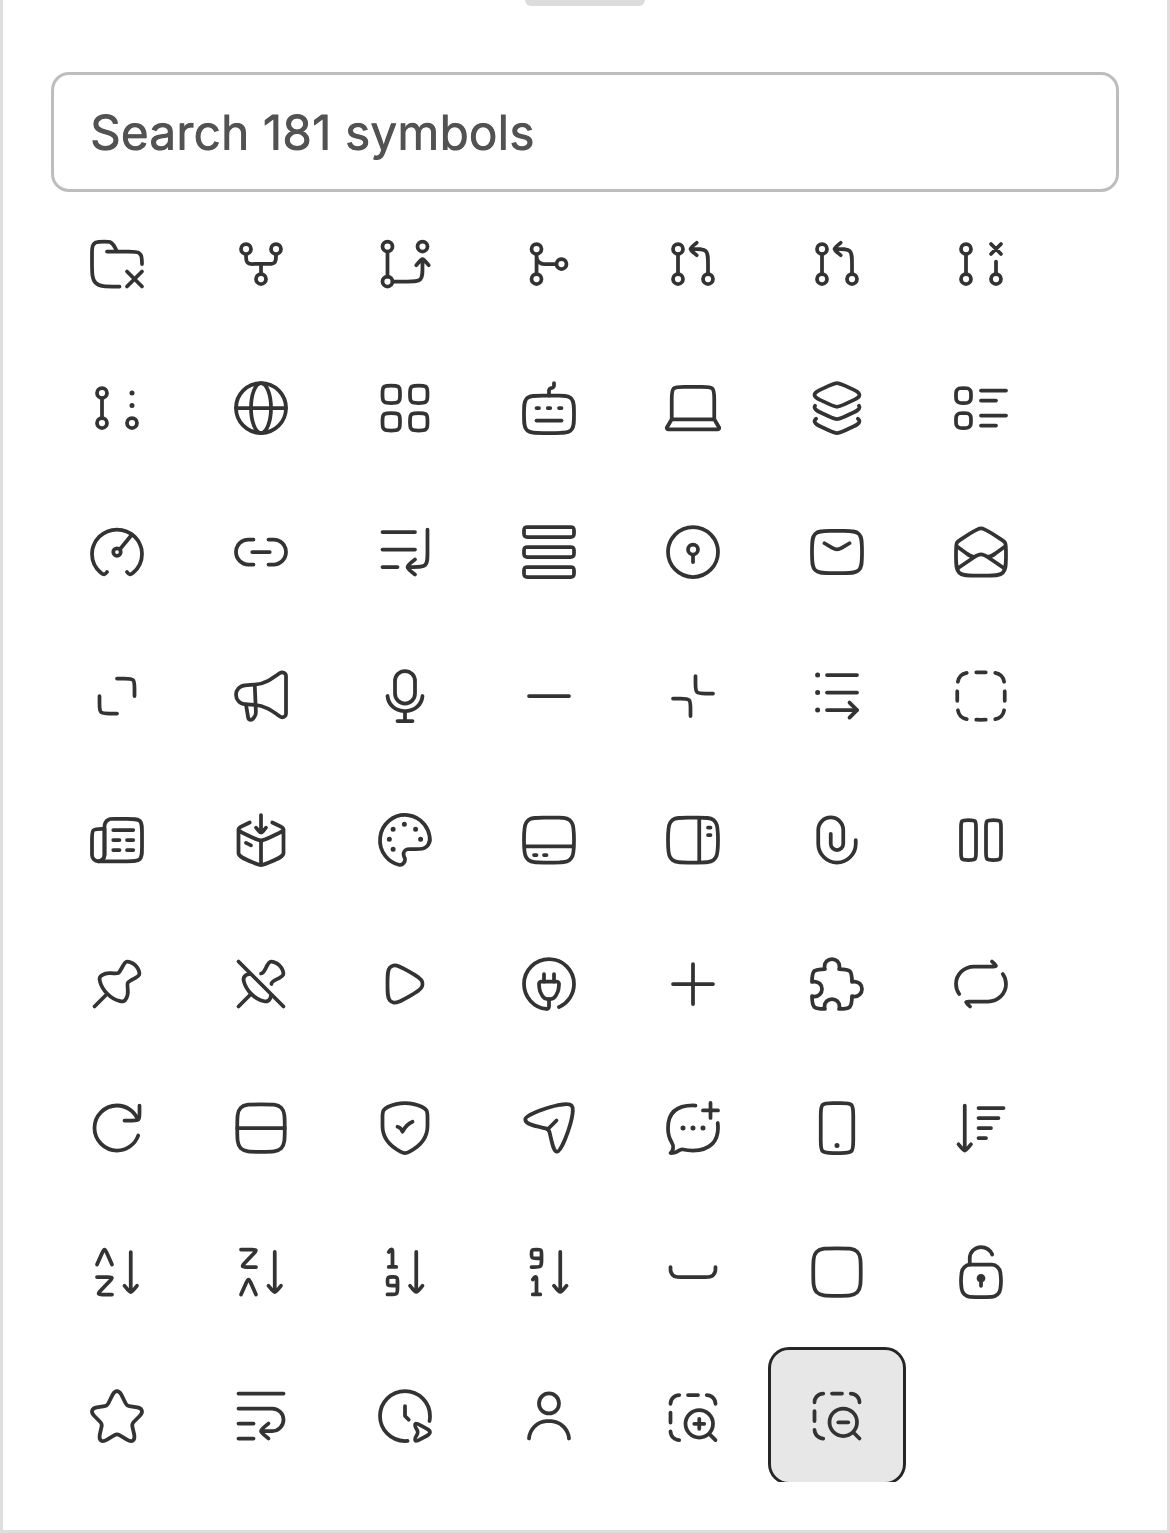
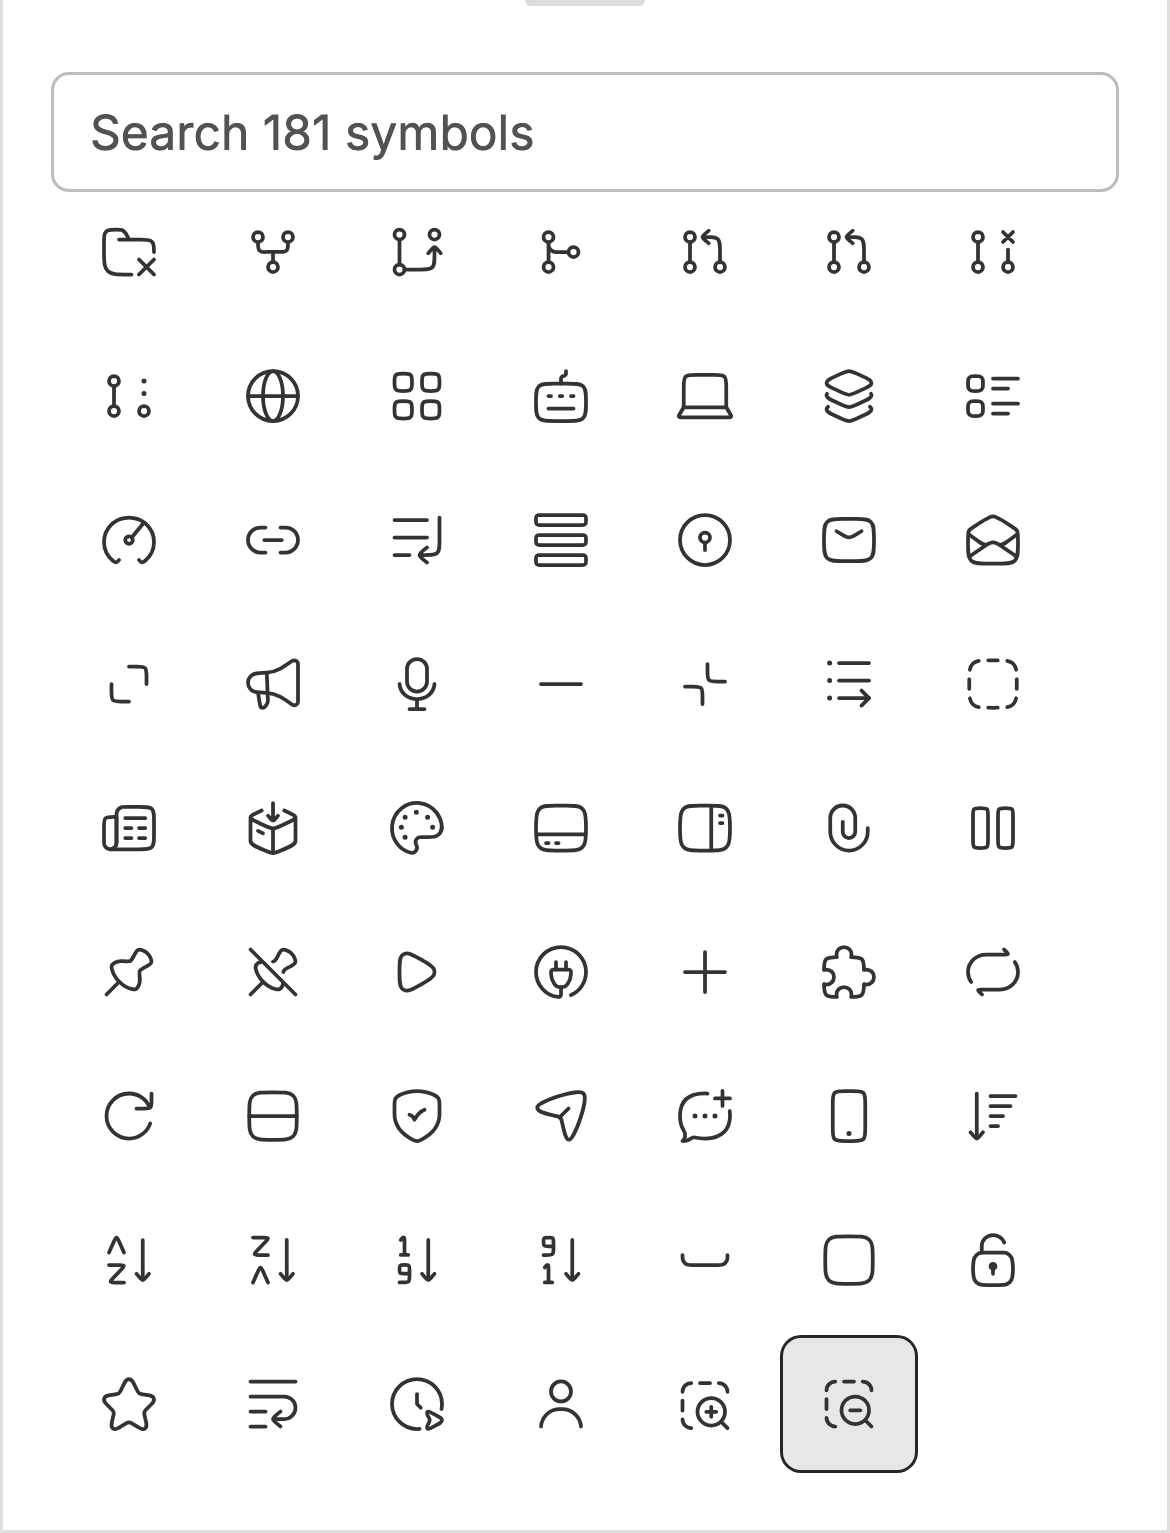
duo-rail: nothing clipped at the symbol popover's left, one more column
The grid scrolls, so it cut off the highlight ring of cells in its first
column; it now keeps 4 pt of padding. The popover is 368 pt wide (eight
symbols across) and never wider than the room the window leaves.

diff --git a/duo-rail/app/editor.tsx b/duo-rail/app/editor.tsx
@@ -290,7 +290,7 @@ function SymbolGrid({ value, searchRef, onPick }: { value: string; searchRef: Re
         role="radiogroup"
         aria-label="Symbol"
         data-testid="duo-rail-icon-grid"
-        className="relative flex max-h-60 flex-wrap content-start gap-1 overflow-y-auto max-md:max-h-[50vh]"
+        className="relative flex max-h-60 flex-wrap content-start gap-1 overflow-y-auto p-1 max-md:max-h-[50vh]"
       >
         {shown.map((icon) => {
           const label = symbolLabel(icon);
@@ -337,7 +337,13 @@ function IconPicker({ id, value, onChange }: { id: string; value: string; onChan
       <PopoverTrigger id={id} type="button" className={ICON_TRIGGER_CLASS} aria-label={`Symbol: ${label}`} title={label}>
         <ActionIcon icon={value} />
       </PopoverTrigger>
-      <PopoverContent align="end" mobileTitle="Symbol" autoFocusRef={search} className="w-80 p-2 max-md:px-4 max-md:pb-4">
+      <PopoverContent
+        align="end"
+        collisionPadding={8}
+        mobileTitle="Symbol"
+        autoFocusRef={search}
+        className="w-[23rem] max-w-[var(--radix-popover-content-available-width)] p-2 max-md:px-4 max-md:pb-4"
+      >
         <SymbolGrid
           key={opening}
           value={value}

diff --git a/duo-rail/AGENTS.md b/duo-rail/AGENTS.md
@@ -112,7 +112,11 @@ scout report that proposed this plugin.
   ("Name" matched `DiffRenamed`, "Pin" `PinOff`). bb's sheet keeps its content mounted after it closes, so `IconPicker` keys
   the grid by an opening counter: each opening starts with an empty search and reveals the choice again
   (the shot list checks it on a phone). The popover is portaled out of the row, so tests and
-  the shot list find the grid and its search box from the page, not from the row.
+  the shot list find the grid and its search box from the page, not from the row. The grid scrolls, so it clips whatever its
+  cells draw outside themselves: it keeps 4 pt of padding so the chosen cell's ring (1 pt outside the cell)
+  shows in the first column too. The popover is 368 pt wide, eight symbols across, capped at the room Radix
+  reports (`--radix-popover-content-available-width`, with `collisionPadding` 8) so it stays inside the
+  window; the shot list measures all three.
 - **The app never imports the SDK root at run time** (`app/imports.test.ts`). `shared/` imports only zod.
 
 ## Testing without a Duo
